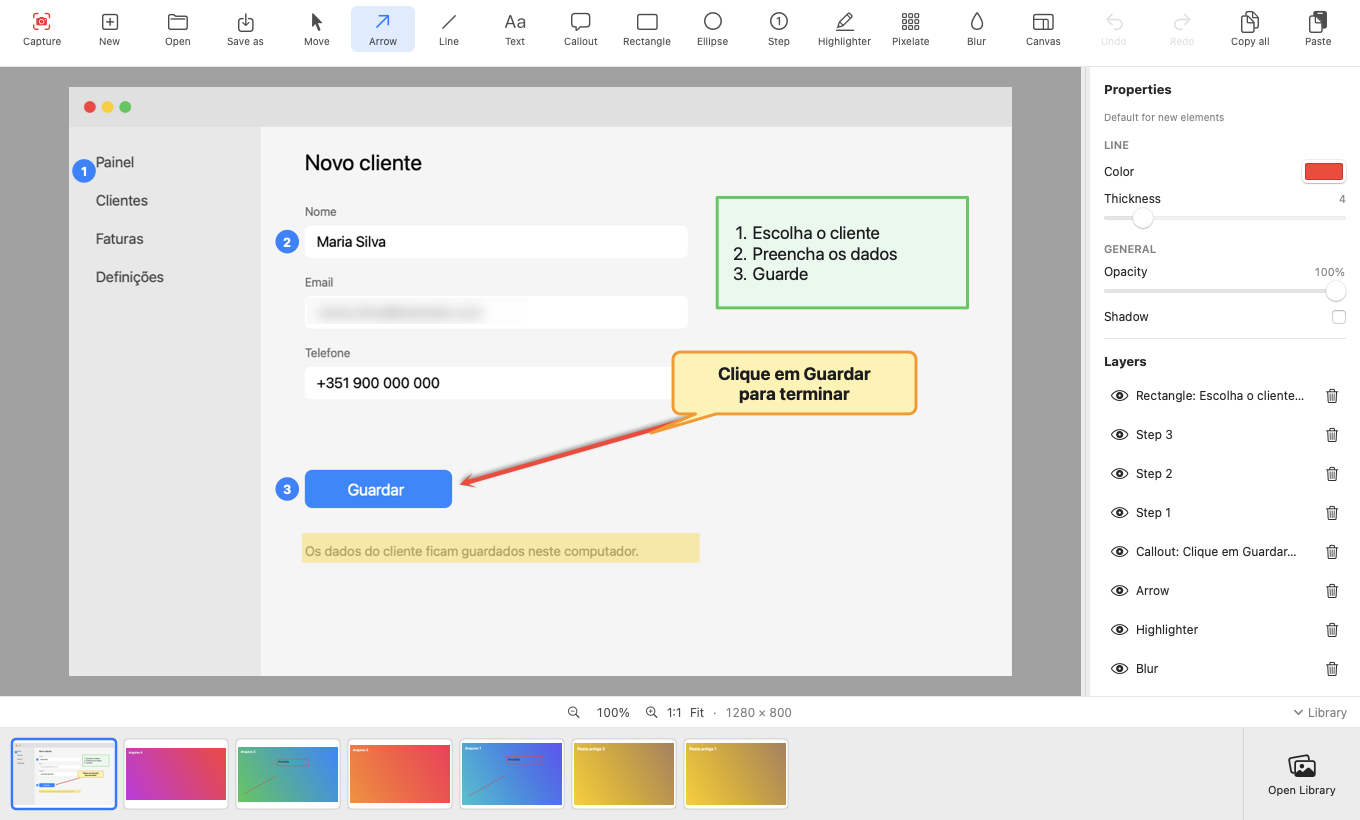
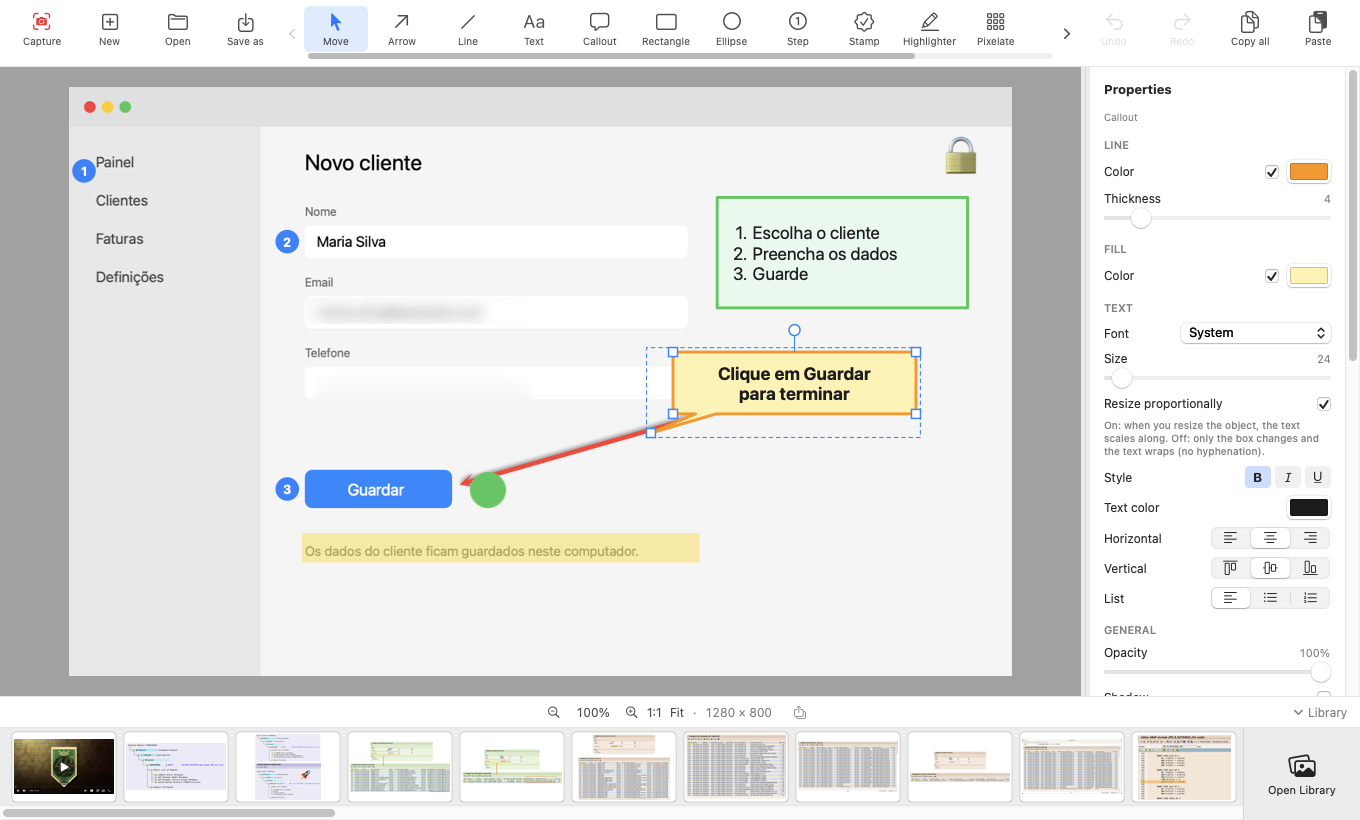
Página do projeto: capturas de ecrã da 0.5.0 (carimbos, reparo, anotações no vídeo), distintivo e instalação v0.5.0, quadro de funcionalidades

diff --git a/Sources/CaptureApp/SelfTests.swift b/Sources/CaptureApp/SelfTests.swift
@@ -375,6 +375,9 @@ enum SelfTests {
         }
         add(.rect(origin: Point(x: 880, y: 150), width: 340, height: 150), { $0.colorHex = "#34C759"; $0.fillHex = "#E7F9EC"; $0.text = TextFormat(align: .left, vAlign: .middle, list: .numbered); $0.text.size = 24 },
             caption: "Escolha o cliente\nPreencha os dados\nGuarde")
+        add(.patch(origin: Point(x: 330, y: 384), width: 300, height: 40))                                                    // Reparo: o telefone desaparece
+        add(.stamp(origin: Point(x: 540, y: 516), width: 60, height: 60, symbol: StampLibrary.symbolKey("checkmark.circle.fill"))) { $0.colorHex = "#34C759" }
+        add(.stamp(origin: Point(x: 1180, y: 60), width: 64, height: 64, symbol: "🔒"))
         return url
     }
 

diff --git a/README.md b/README.md
@@ -11,7 +11,7 @@
 
 <br>
 
-[![Descarregar](https://img.shields.io/badge/DESCARREGAR-v0.4.0-111111?style=for-the-badge&logo=apple&logoColor=white)](../../releases/latest)
+[![Descarregar](https://img.shields.io/badge/DESCARREGAR-v0.5.0-111111?style=for-the-badge&logo=apple&logoColor=white)](../../releases/latest)
 [![Licença](https://img.shields.io/badge/LICEN%C3%87A-MIT-111111?style=for-the-badge)](LICENSE)
 [![macOS](https://img.shields.io/badge/macOS-15%2B-111111?style=for-the-badge&logo=apple&logoColor=white)](#instalação)
 [![Apoiar](https://img.shields.io/badge/APOIAR-PayPal-0070BA?style=for-the-badge&logo=paypal&logoColor=white)](https://paypal.me/lestat013)
@@ -28,10 +28,10 @@
 
 <table>
 <tr>
-<td width="25%" valign="top"><h4>📸 Capturar</h4>Região com o ecrã congelado, página inteira por rolagem e ecrã completo.</td>
-<td width="25%" valign="top"><h4>✏ Anotar</h4>Setas, texto, balões, etapas, pixelização e desfoque. Sempre reeditável.</td>
-<td width="25%" valign="top"><h4>🎥 Gravar</h4>MP4 com áudio do sistema e microfone, a qualquer momento.</td>
-<td width="25%" valign="top"><h4>✂ Editar vídeo</h4>Três linhas, blocos que se movem, cortes exatos ao quadro.</td>
+<td width="25%" valign="top"><h4>📸 Capturar</h4>Região com o ecrã congelado, janela (com ou sem sombra), página inteira por rolagem e ecrã completo.</td>
+<td width="25%" valign="top"><h4>✏ Anotar</h4>Setas, texto, balões, etapas, carimbos, pixelização, desfoque e reparo. Alinhar, agrupar, rodar. Sempre reeditável.</td>
+<td width="25%" valign="top"><h4>🎥 Gravar</h4>Área ou janela em MP4, com áudio do sistema e microfone à escolha.</td>
+<td width="25%" valign="top"><h4>✂ Editar vídeo</h4>Cortes ao quadro, anotações com início e fim, música, narração, velocidade; MP4, GIF ou só áudio.</td>
 </tr>
 </table>
 
@@ -56,6 +56,8 @@ Na mitologia egípcia, **Thoth (Toth)** é o deus da **escrita, do conhecimento 
 | **Arrastar para fora** | Pega no rodapé para arrastar a imagem final (PNG) para outra app ou para o Finder; **Copiar tudo** também leva um ficheiro PNG. |
 
 **Editor de vídeo**
+
+<p align="center"><img src="docs/images/toth-video-editor.png" alt="Editor de vídeo do Toth" width="880"></p>
 
 | | |
 |---|---|
@@ -85,8 +87,6 @@ Na mitologia egípcia, **Thoth (Toth)** é o deus da **escrita, do conhecimento 
 - **Áudio do sistema** e **microfone** ligam-se e desligam-se a qualquer momento, e cada um fica na sua faixa.
 
 **Editor de vídeo com linha de tempo de três linhas** (vídeo, áudio do sistema, microfone)
-
-<p align="center"><img src="docs/images/toth-video-editor.png" alt="Editor de vídeo do Toth" width="880"></p>
 
 | | |
 |---|---|
@@ -127,7 +127,7 @@ O Toth não tem legendas automáticas, efeitos nem transições, e não partilha
 ### Instalação
 **Requisitos:** macOS 15 ou superior (Apple Silicon e Intel; testado em Apple Silicon).
 
-1. Em [**Releases**](../../releases/latest), descarregue `Toth-0.4.0.zip` e descomprima.
+1. Em [**Releases**](../../releases/latest), descarregue `Toth-0.5.0.zip` e descomprima.
 2. Arraste `Toth.app` para **Aplicações**.
 3. **Primeira abertura (uma só vez).** A app ainda não está notarizada pela Apple, por isso o macOS mostra *“Toth” não aberto*. **Não mova para o Lixo:** clique em **OK**, abra **Definições do Sistema → Privacidade e Segurança**, desça até **Segurança**, clique em **Abrir mesmo assim** junto a “Toth” e confirme. (No macOS 14 ou anterior: botão direito → **Abrir**. No Terminal: `xattr -dr com.apple.quarantine /Applications/Toth.app`.)
 4. **Permissão guiada.** Ao abrir, o Toth verifica a **Gravação de Ecrã** e, se faltar, mostra um guia de 3 passos: **Conceder permissão** → ativar o Toth na lista → **Reiniciar o Toth**.
@@ -181,6 +181,8 @@ In Egyptian mythology, **Thoth** is the god of **writing, knowledge and wisdom**
 | **Drag out** | A grip in the footer drags the final image (PNG) to another app or to the Finder; **Copy all** also carries a PNG file. |
 
 **Video editor**
+
+<p align="center"><img src="docs/images/toth-video-editor.png" alt="Toth video editor" width="880"></p>
 
 | | |
 |---|---|
@@ -250,7 +252,7 @@ Toth has no automatic captions, effects or transitions, and does not share onlin
 ### Installation
 **Requirements:** macOS 15 or later (Apple Silicon and Intel; tested on Apple Silicon).
 
-1. Under [**Releases**](../../releases/latest), download `Toth-0.4.0.zip` and unzip it.
+1. Under [**Releases**](../../releases/latest), download `Toth-0.5.0.zip` and unzip it.
 2. Drag `Toth.app` to **Applications**.
 3. **First launch (once).** The app is not yet notarized by Apple, so macOS shows *“Toth” Not Opened*. **Don't move it to the Trash:** click **Done**, open **System Settings → Privacy & Security**, scroll to **Security**, click **Open Anyway** next to “Toth” and confirm. (On macOS 14 or earlier: right-click → **Open**. In Terminal: `xattr -dr com.apple.quarantine /Applications/Toth.app`.)
 4. **Guided permission.** On launch, Toth checks **Screen Recording** and, if missing, shows a 3-step guide: **Grant permission** → turn Toth on in the list → **Restart Toth**.
